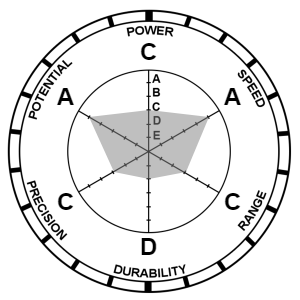
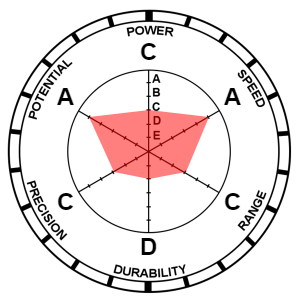
Change stand stats and make images unselectable

Changed region(s): [[0.3, 0.36, 0.69, 0.6]]

diff --git a/index.html b/index.html
@@ -18,7 +18,7 @@
 
             <img class="layer2" src="images/Gold_Experience_Anime.png">
             <img class="shadow-layer" src="images/Gold_Experience_Anime.png">
-            <img class="stand-stats" src="images/gold-experience-stats.png">
+            <img class="stand-stats" src="images/Gold-Experience-Stats.png">
 
         </div>
     </div>

diff --git a/style.css b/style.css
@@ -59,8 +59,17 @@ body {
     position: absolute;
     top: 170px;
     left: -380px;
+    filter: grayscale(100%); 
 }
 
+
+img {
+    user-select: none;
+    -moz-user-select: none;
+    -webkit-user-drag: none;
+    -webkit-user-select: none;
+    -ms-user-select: none;
+}
 .layer1 {
     z-index: 10;
     
